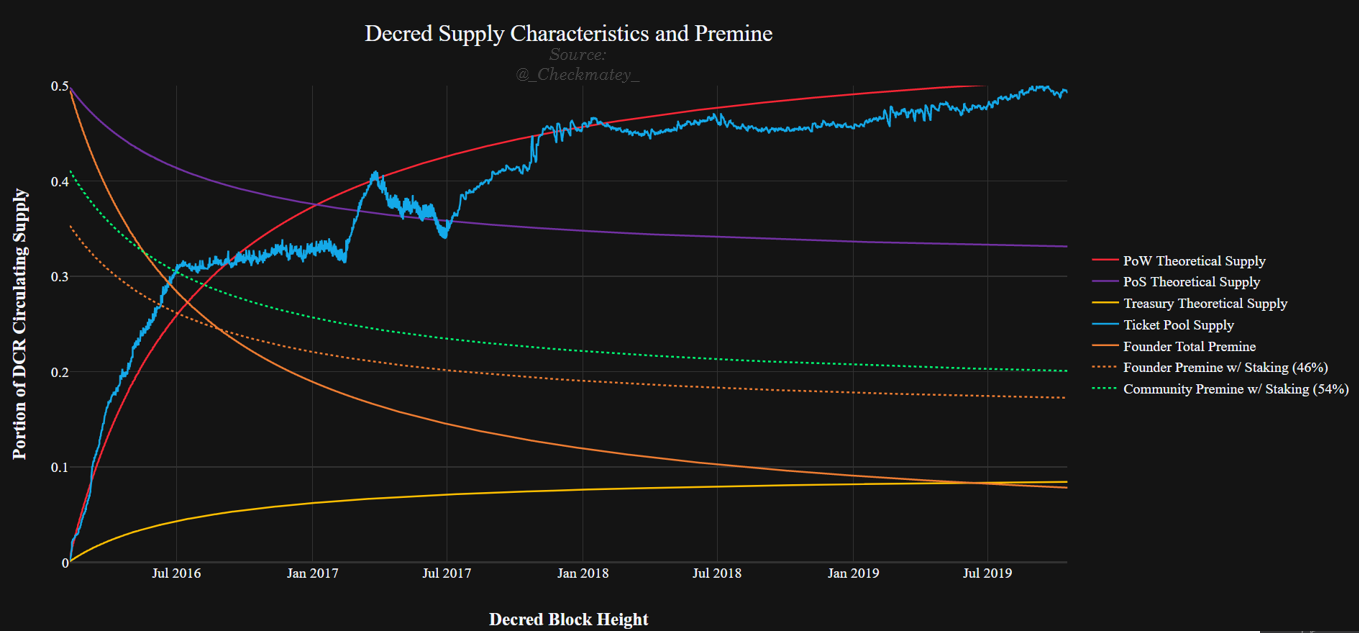
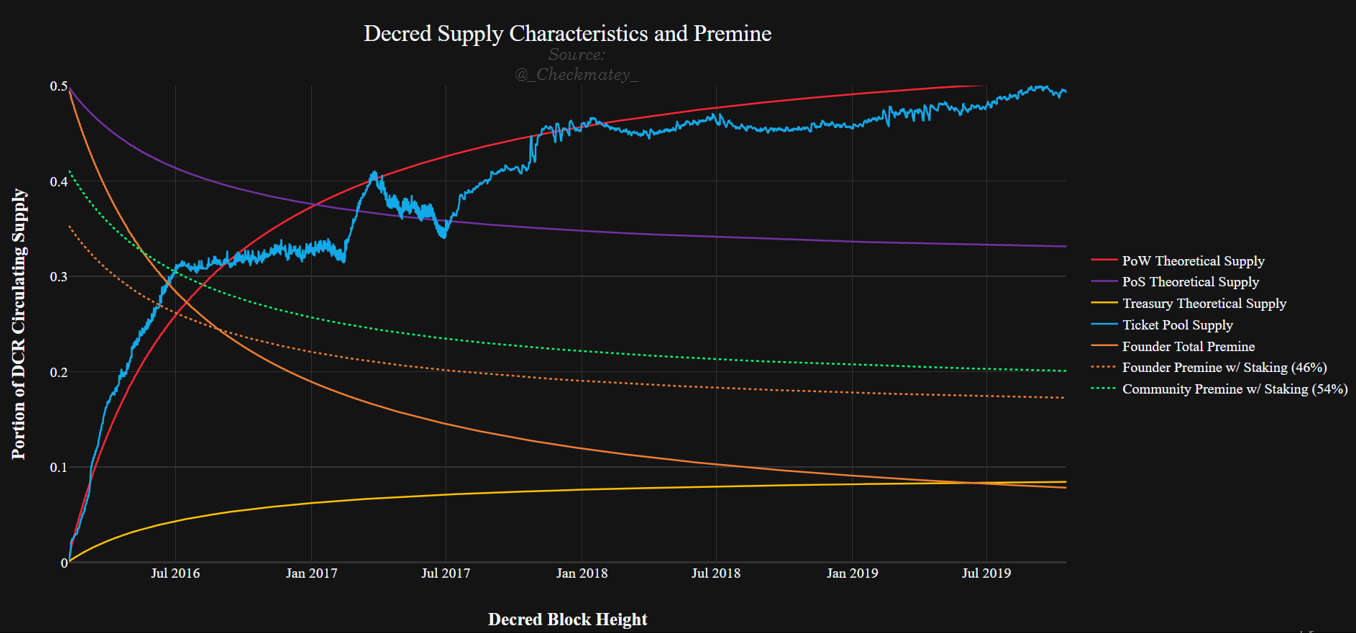
updated image_04

diff --git a/dcronchain/charts/chart_dcr_premine.py b/dcronchain/charts/chart_dcr_premine.py
@@ -42,8 +42,8 @@ name_data = [
     'Treasury Theoretical Supply',
     'Ticket Pool Supply',
     'Founder Total Premine',
-    'Founder Premine w/ Staking (46%)',
-    'Community Premine w/ Staking (54%)'
+    'Founder Spent Premine w/ Staking (46%)',
+    'Community Spent Premine w/ Staking (54%)'
 ]
 color_data = [
     'rgb(250, 38, 53)' ,

diff --git a/research_articles/dcr_unforgeable_costliness/dcr_unforgeable_costliness.md b/research_articles/dcr_unforgeable_costliness/dcr_unforgeable_costliness.md
@@ -117,13 +117,14 @@ As such, **Decreds's** initial distribution iterated on **Bitcoin's** ideals to 
 4. Appropriately gradual reduction in the role of the founding team.
 5. A founders reward of 4% of DCR supply consistent with what public opinion deemed fair remuneration for Satoshi's work on Bitcoin (value of time and skill).
 
-It is well known that some in the cryptocurrency industry view premines as a dirty word which exist soley to unfairly benefit founding teams (with many unfortunate examples as evidence). The author has no expectation of changing those minds. 
+It is well known that some in the cryptocurrency industry view pre-mines as a dirty word which exist soley to unfairly benefit founding teams (with many unfortunate examples as evidence). The author has no expectation of changing those minds.
 
-What is desireable is to impart on the more open minded reader that **Decred** was launched in very different circumstance to **Bitcoin**. By careful design, a small premine acted to both bootstrap network security during the most vulnerable years whilst rewarding the team for their skill and time at exactly the same rate to Satoshi.
+What is desireable is to impart on the more open minded reader that **Decred** was launched in very different circumstance to **Bitcoin**. By careful design, a small pre-mine acted to bootstrap network security during the most vulnerable years whilst rewarding the team for their skill and time at exactly the same rate as Satoshi.
 
 ## The Cost of Energy
 
-Resistance of a scarce asset to monopolistic capture is essential to develop the trust of users who seek a vehicle for store of wealth over time. Particularly at the point of creation
+**Bitcoin** and **Decred** both share a common feature of Proof-of-Work as the dominant mechanism for issuing new coins. 
+
 
 
 ## The Cost of Capital
